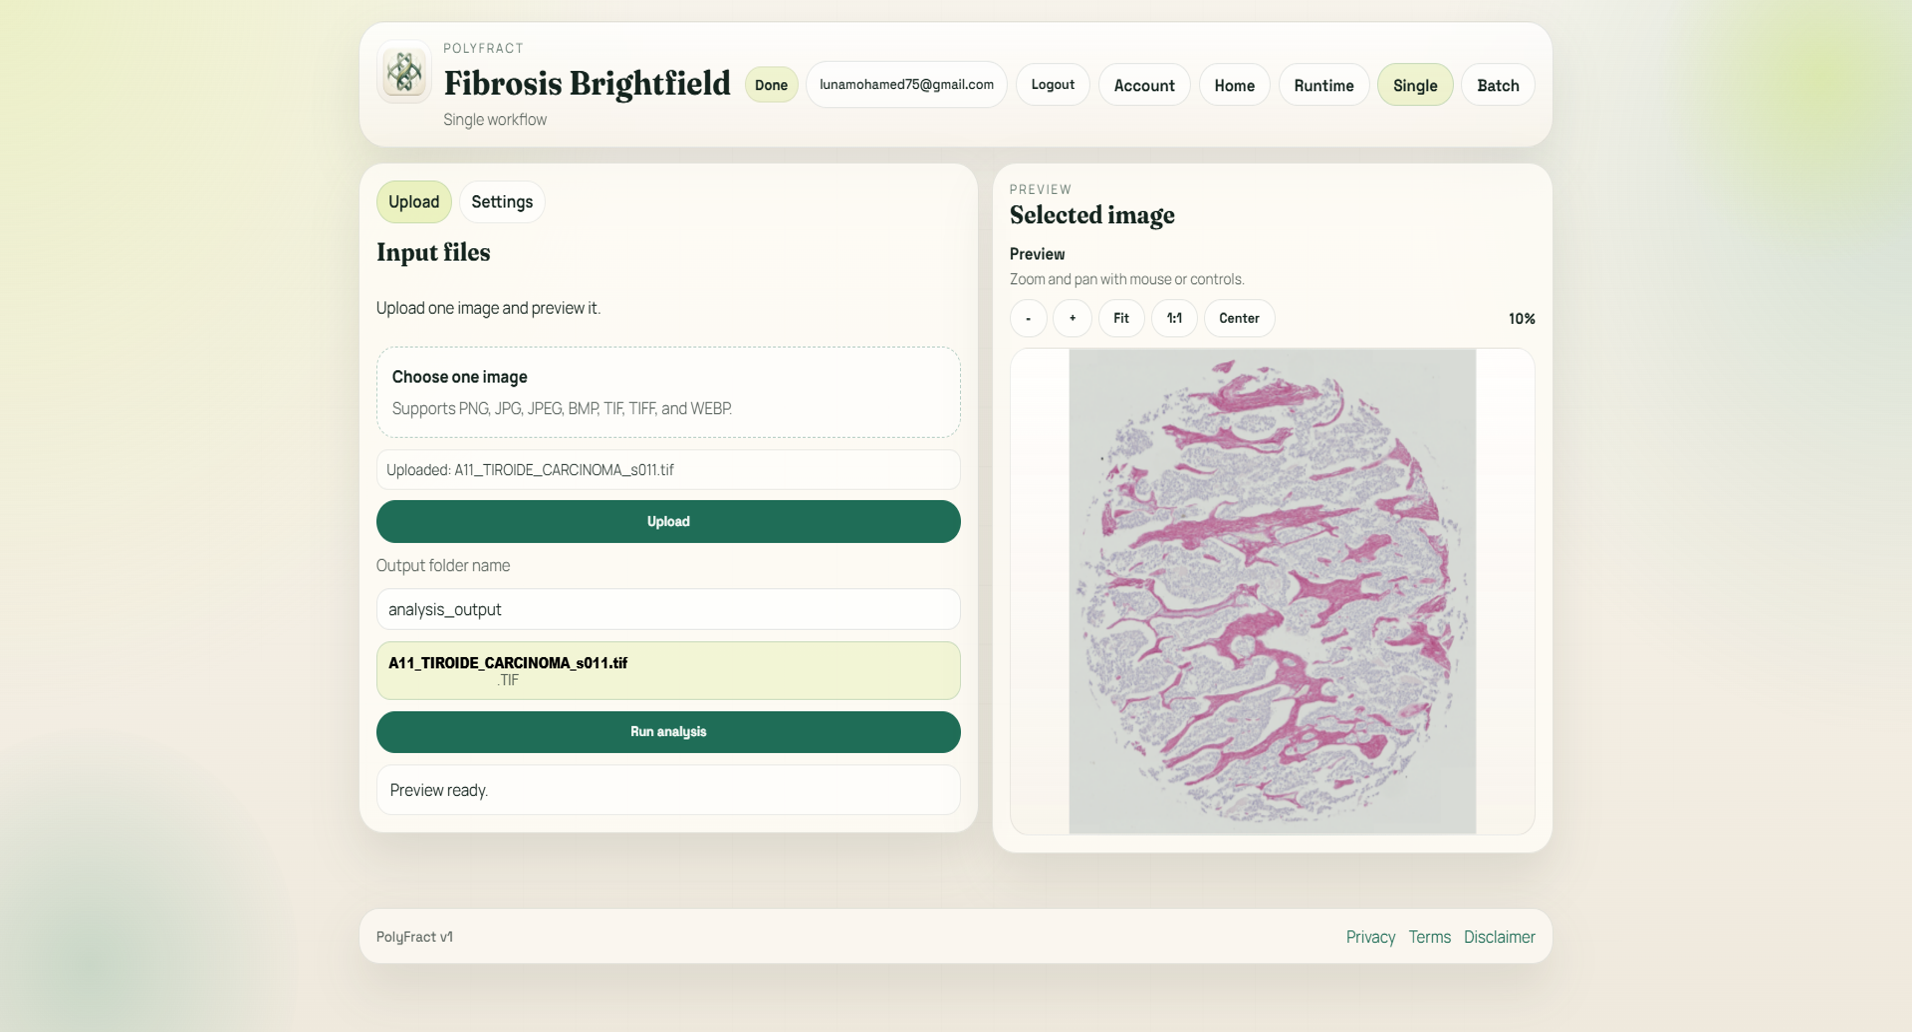
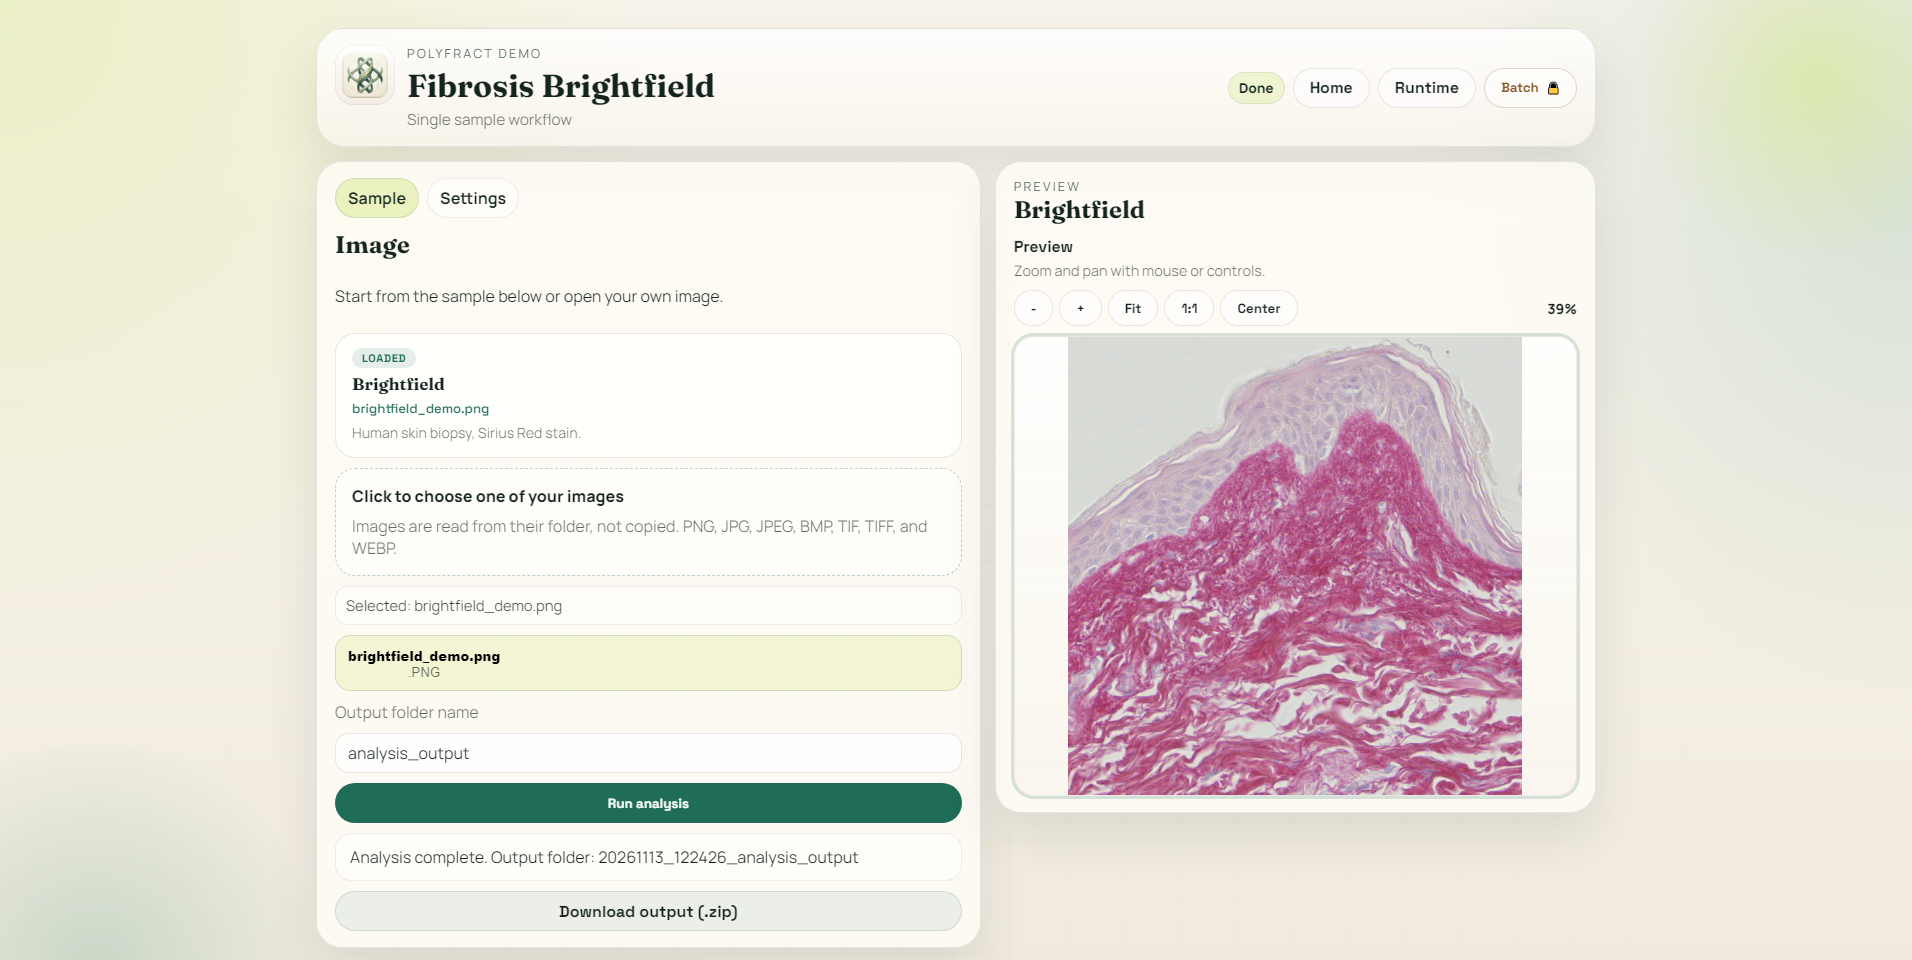
Update the project page for the v1.1.0 demo
The demo now analyses the user's own images one at a time, read in place.
README describes the new outputs (fixed-range FD, tissue-only RD), defines
the CSR as a descriptor of the birefringent signal, and the screenshots
come from the v1.1.0 demo.

diff --git a/README.md b/README.md
@@ -20,11 +20,11 @@
 
 **[Download PolyFract v1 Demo](https://github.com/MohamedAhmedAhmedAbdelazizHegazi/PolyFract-v1/releases/latest/download/PolyFract-v1-Demo-Setup.exe)** — Windows installer, no licence key, no account.
 
-Two images come with the demo: a human skin biopsy stained with Sirius Red, photographed in brightfield and again under polarized light. Open either module and run it. The analysis is the same one the full version performs, and it produces the same output: masks, heatmaps, RD scaling plots, and spreadsheets.
+The demo analyses your own brightfield and polarized images, one image at a time. Images are read where they are on disk and are never copied. The analysis is the same one the full version performs, and it produces the same output: masks, heatmaps, RD scaling plots, and spreadsheets.
 
-Thresholds are already set for these two images. You can move them and watch the segmentation change before committing to a run, then put them back with one click.
+Two images also come with the demo, a human skin biopsy stained with Sirius Red, photographed in brightfield and again under polarized light, with thresholds already set. You can move the thresholds and watch the segmentation change before committing to a run, then put them back with one click.
 
-The demo cannot open your own slides, run a whole slide set, or save protocol files. Those need the full version — see [Contact](#contact).
+Batch analysis of a whole slide set is available for academic research upon reasonable request — see [Contact](#contact).
 
 ## Overview
 
@@ -37,7 +37,7 @@ The current release includes:
 - Heatmap generation and hotspot localization
 - Excel-based quantitative output export
 - Protocol save/load support for consistent analyses across sessions and samples
-- Runtime storage management for uploaded files, previews, and generated outputs
+- Images read in place from their own disk; previews and outputs kept in a local runtime folder
 
 ## Why PolyFract
 
@@ -66,7 +66,7 @@ The demo installer and the quick start guide are published on the **[Releases pa
 
 | File | Purpose |
 | --- | --- |
-| [`PolyFract-v1-Demo-Setup.exe`](https://github.com/MohamedAhmedAhmedAbdelazizHegazi/PolyFract-v1/releases/latest/download/PolyFract-v1-Demo-Setup.exe) | evaluate PolyFract on the two bundled samples |
+| [`PolyFract-v1-Demo-Setup.exe`](https://github.com/MohamedAhmedAhmedAbdelazizHegazi/PolyFract-v1/releases/latest/download/PolyFract-v1-Demo-Setup.exe) | analyse your own images one at a time, or the two bundled samples |
 | [`PolyFract_Quick_Start_Guide_EN.pdf`](https://github.com/MohamedAhmedAhmedAbdelazizHegazi/PolyFract-v1/releases/latest/download/PolyFract_Quick_Start_Guide_EN.pdf) | installation and first-use guide |
 
 To use the demo:
@@ -77,7 +77,7 @@ To use the demo:
 4. Follow the guide during installation and first use.
 5. Open the application and start the required analysis workflow.
 
-Requires Windows 10 or 11, 64-bit. The Microsoft Edge WebView2 Runtime is installed automatically if it is not already present, and no internet connection is needed during setup.
+Requires Windows 10 or 11, 64-bit. PolyFract runs locally and opens in your default web browser; no internet connection is needed.
 
 **The full version is not distributed from this page.** It is provided directly to licensed users and collaborators; see [Requesting The Full Version](#requesting-the-full-version).
 
@@ -160,8 +160,8 @@ Computed metrics include:
 - Sirius Red area `(px)`
 - Tissue area `(px)`
 - Sirius Red area `(\%)`
-- Fractal Dimension from box-counting on the segmented fibrosis mask
-- Heatmap, RD, and RD scaling for Sirius Red area
+- Fractal Dimension from box-counting on the segmented fibrosis mask, with an adaptive fitting window and, from v1.1.0, a fixed-range estimate (recommended when images are compared)
+- Heatmap, RD, and RD scaling for Sirius Red area, plus RD computed on tissue quadrats only (from v1.1.0)
 - Heatmap, RD, and RD scaling for local fractal dimension
 
 ### Polarized
@@ -172,7 +172,7 @@ Computed metrics include:
 
 - Red channel statistics
 - Green channel statistics
-- Collagen Signal Ratio `(CSR)`
+- Collagen Signal Ratio `(CSR)`: mean green intensity divided by mean red intensity of the thresholded pixels. It describes the birefringent signal, which depends on fibre thickness, packing and orientation, and does not measure collagen type; report it with the red and green thresholds used
 - Heatmap mean, SD, RD%, valid boxes, and grid size
 
 ## Protocol Reproducibility
@@ -201,14 +201,7 @@ The demo keeps its own separate workspace, so the two editions never share runti
 %LOCALAPPDATA%\PolyFract v1 Demo\runtime
 ```
 
-This includes:
-
-- uploads
-- previews
-- outputs
-
-These runtime artifacts should generally not be committed to GitHub.
-The desktop build scripts and installer sources stay in the repository, while generated binaries and the local WebView2 bootstrapper remain ignored.
+This includes previews and outputs. Your images are not copied there: they are read from the disk where they are stored.
 
 If the installed desktop application cannot start, PolyFract writes a startup traceback here:
 
@@ -216,7 +209,7 @@ If the installed desktop application cannot start, PolyFract writes a startup tr
 %LOCALAPPDATA%\PolyFract v1\runtime\crash\desktop_startup_error.log
 ```
 
-If the desktop shell starts but the embedded Flask app fails later, inspect:
+If the application starts but an analysis fails later, inspect:
 
 ```text
 %LOCALAPPDATA%\PolyFract v1\runtime\crash\app_runtime.log
